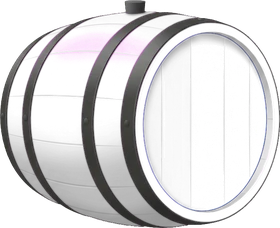
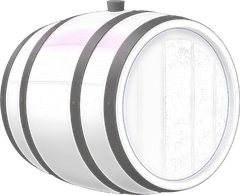
Make the cask sit with the glasses
Blur the fine grain noise out of the cask shading, lower its contrast to
the glasses' level, lighten the hoops to a grey metal like the glass
rims, and shrink the cask to 60 units wide so it keeps the same margin
as the glasses. Data rules are unchanged.

Claude-Session: https://claude.ai/code/session_012hwGhoXjgPASnCsaUvdRqD

diff --git a/app/src/ui/components/caskAssets.ts b/app/src/ui/components/caskAssets.ts
@@ -4,4 +4,4 @@ import head from '../../assets/cask/head.webp';
 import shade from '../../assets/cask/shade.webp';
 
 /** 오크통 그림과 그 자리(80×80 viewBox 단위). head 는 마구리의 가로·세로 범위, plug 는 마개 꼭대기 */
-export const CASK_SPRITE = { body, head, shade, box: {x: 5.0, y: 15.06, w: 70.0, h: 56.94}, headBox: {x0: 40.85, x1: 71.48, y0: 23.4, y1: 67.59}, plug: {x: 40.15, y: 15.16} } as const;
+export const CASK_SPRITE = { body, head, shade, box: {x: 10.0, y: 23.19, w: 60.0, h: 48.81}, headBox: {x0: 40.73, x1: 66.99, y0: 30.33, y1: 68.21}, plug: {x: 40.13, y: 23.28} } as const;

diff --git a/app/scripts/cask_assets.py b/app/scripts/cask_assets.py
@@ -17,10 +17,10 @@ import os
 import sys
 
 import numpy as np
-from PIL import Image
+from PIL import Image, ImageFilter
 
 PX = 4          # viewBox 1단위당 픽셀
-FIT_W = 70      # 통 너비(단위)
+FIT_W = 60      # 통 너비(단위) — 잔과 같은 여백이 남도록
 BASE = 72       # 통 바닥 y
 
 ROOT = os.path.dirname(os.path.dirname(os.path.abspath(__file__)))
@@ -46,8 +46,9 @@ def main():
     def shade(mask, bright):
         full = mask > .9
         m = float(np.percentile(bright[full], 70)) if full.any() else .8
-        dark = np.clip((m - bright) / m, 0, 1) * .8
-        light = np.clip((bright - m) / max(1e-3, 1 - m), 0, 1) * .55
+        # 잔처럼 낮은 대비로 — 원본의 강한 명암을 그대로 쓰면 통만 무겁게 보인다
+        dark = np.clip((m - bright) / m, 0, 1) * .55
+        light = np.clip((bright - m) / max(1e-3, 1 - m), 0, 1) * .35
         return np.where(bright < m, dark, light), np.where(bright < m, 0.0, 255.0)
 
     bm, cm = np.maximum(r, b) / 255, np.maximum(g, b) / 255
@@ -55,11 +56,16 @@ def main():
     sd_c, s_c = shade(cya, cm)
     wood = np.maximum(mag, cya)
     sd = np.where(mag >= cya, sd_m, sd_c) * wood
+    # 원본 나뭇결의 잔 점무늬를 흐려 큰 명암만 남긴다(잔의 매끈한 그라데이션과 맞춘다)
+    blur = lambda a, r: np.asarray(Image.fromarray((np.clip(a, 0, 1) * 255).astype(np.uint8)).filter(ImageFilter.GaussianBlur(r))).astype(np.float64) / 255
+    sd = blur(sd, 6) * wood
     sc = np.where(mag >= cya, s_m, s_c)
 
     # 쇠테·마개 등 나머지: 원래 색. 가장자리 초록 번짐은 초록을 빨강·파랑 수준으로 누른다
     rest = np.clip(alpha - wood, 0, 1)
     gg = np.minimum(g, np.maximum(r, b))
+    # 쇠테를 한 단계 밝게 — 검은 띠 대신 잔 테두리 같은 회색 금속으로
+    r, gg, b = (ch + (205 - ch) * .28 for ch in (r, gg, b))
     out = np.zeros(src.shape[:2] + (4,))
     a_out = rest + sd * (1 - rest)
     for k, ch in enumerate((r, gg, b)):
